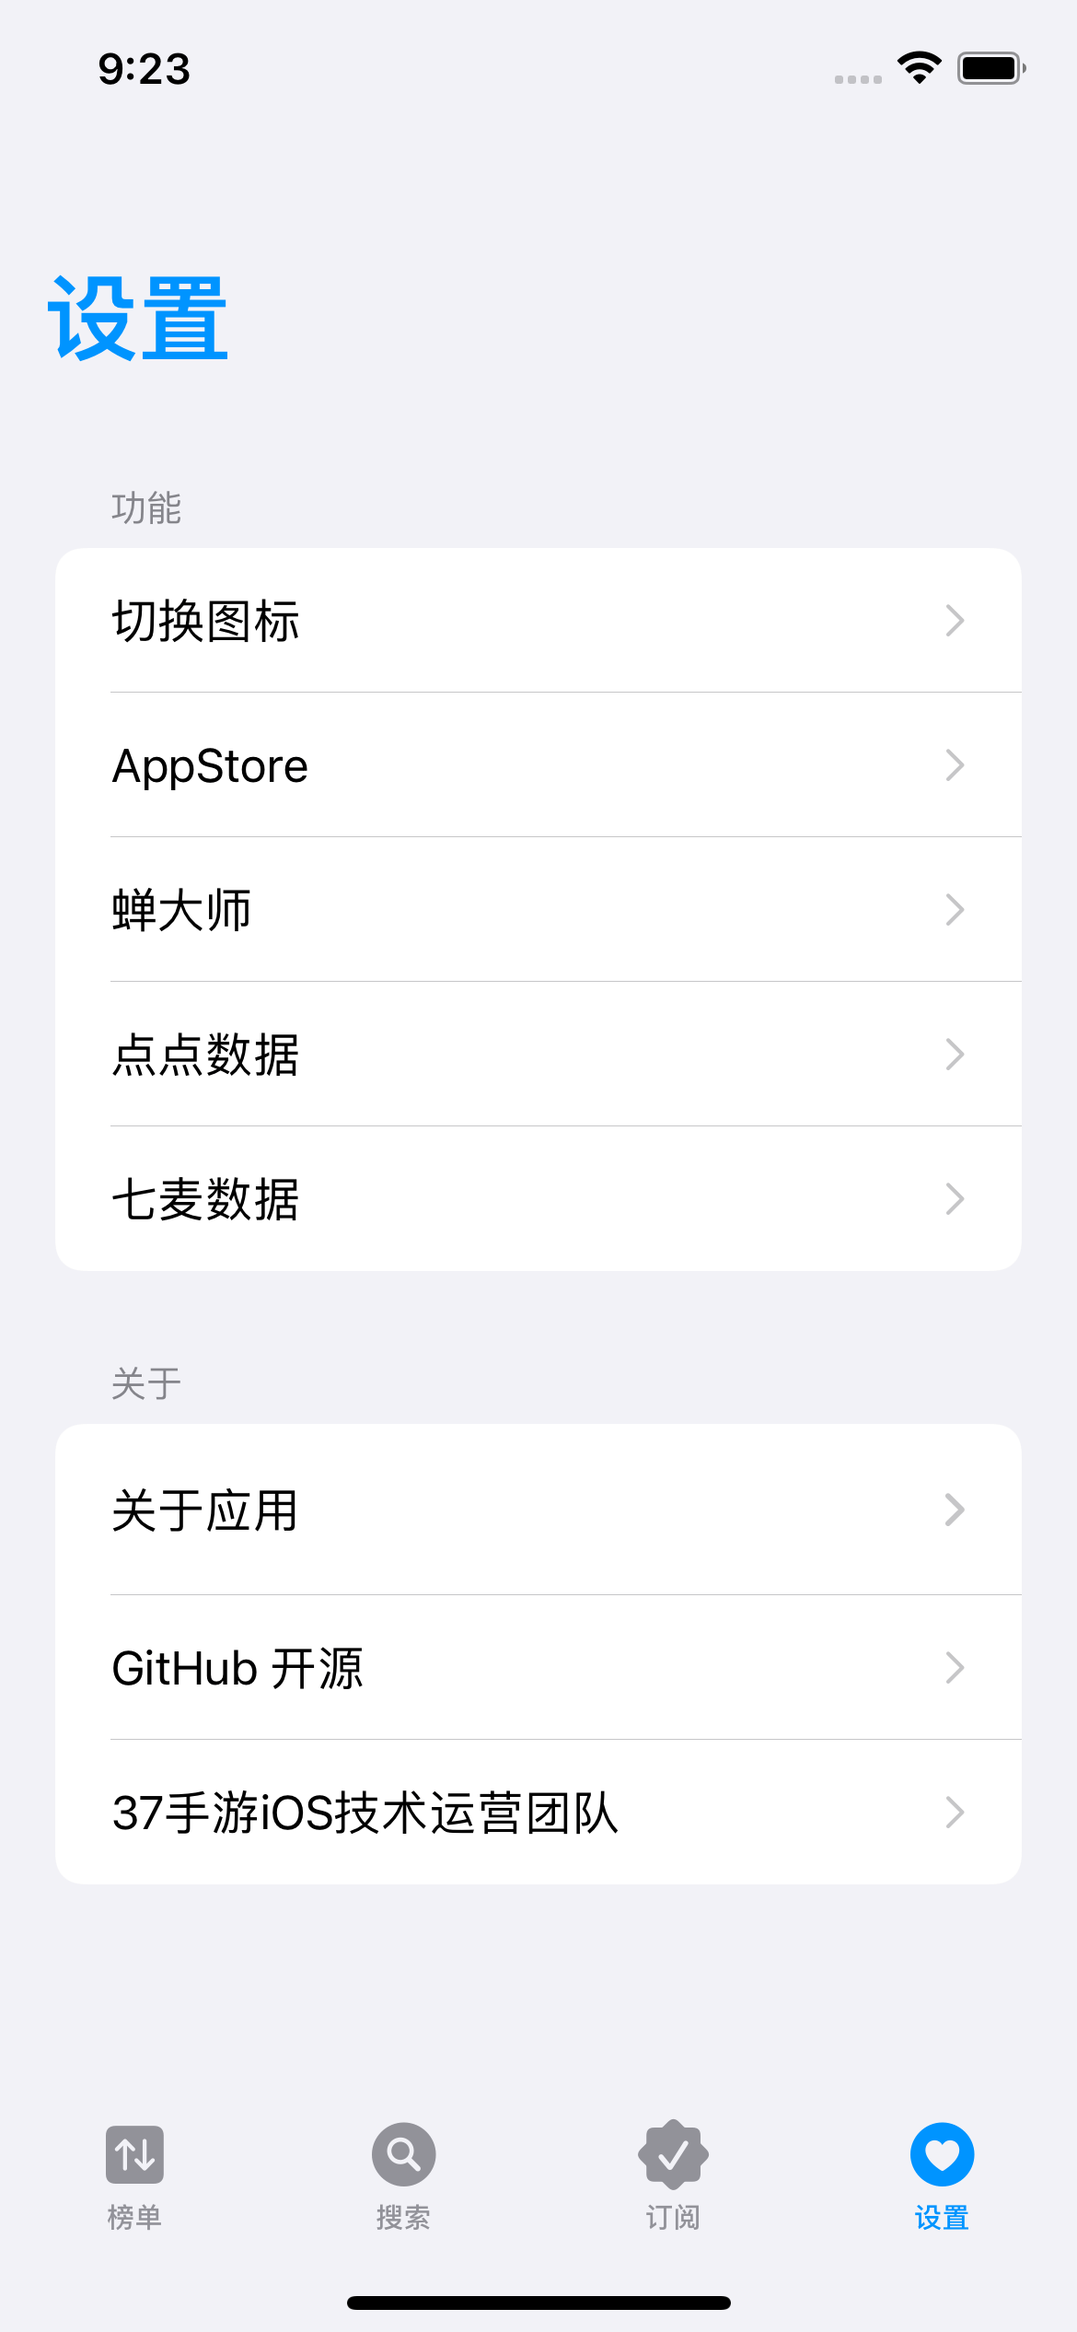
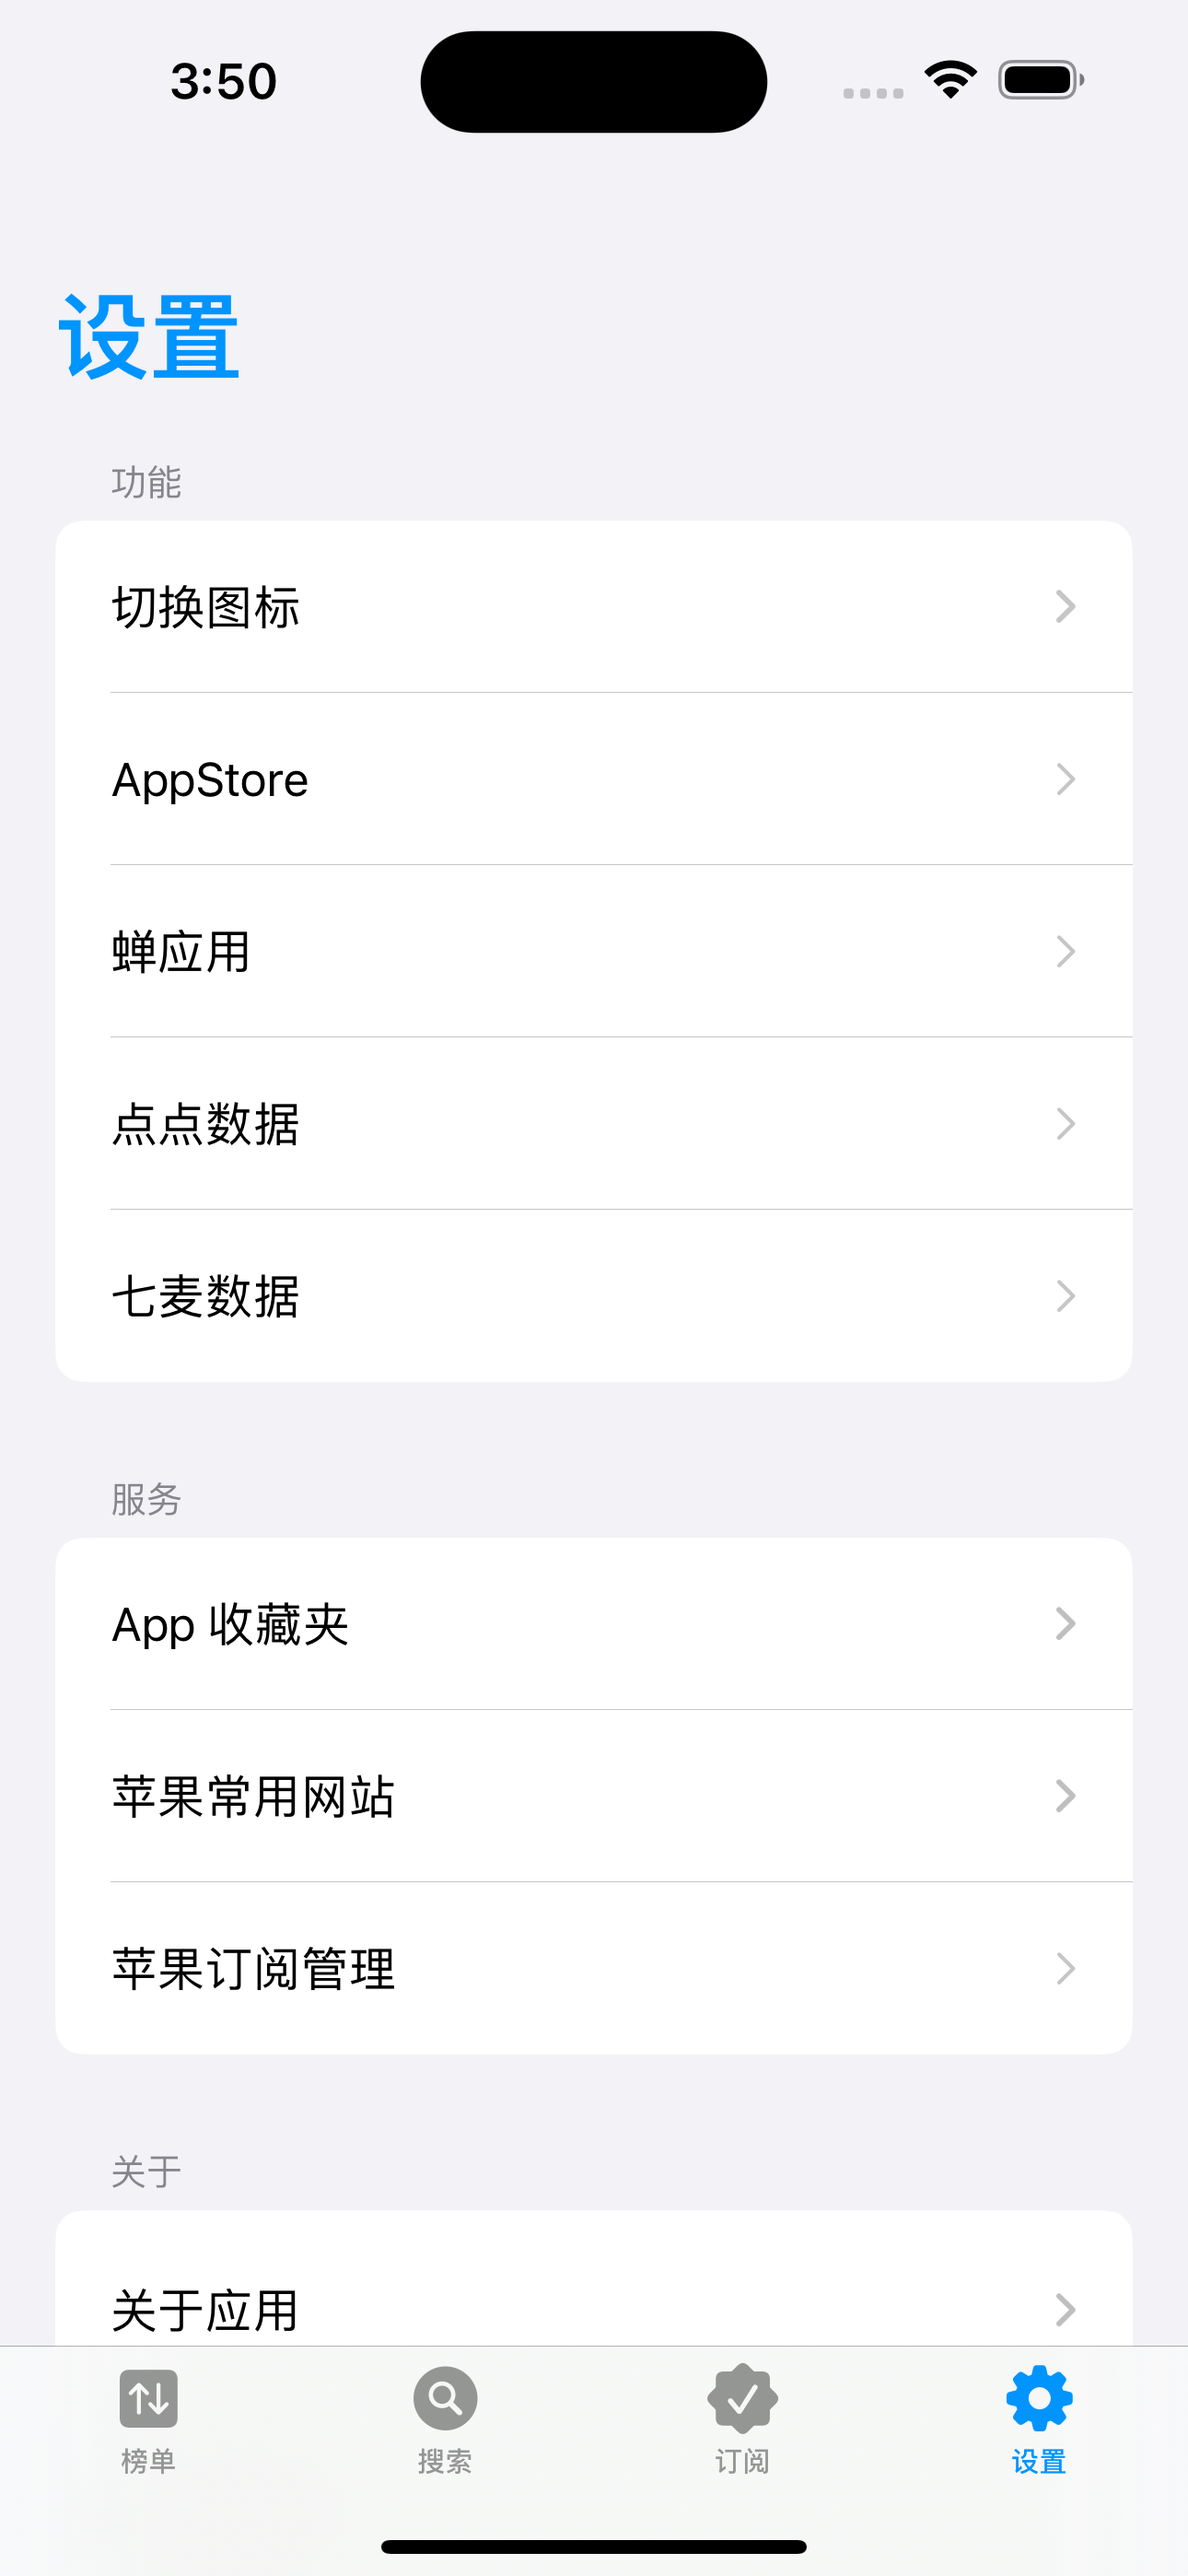
v1.6.0 Updates:
1. Added app bookmarking feature for convenient bookmarking and viewing of a collection of favorite apps.
2. Introduced the ability to generate QR codes for App Store links, enabling quick sharing and downloading.
3. Enhanced and addressed various errors and user experience details.

diff --git a/README.md b/README.md
@@ -54,7 +54,7 @@ TestFlight 下载地址：[https://testflight.apple.com/join/XXEQdVKN](https://t
 | ----- | ----- |
 | ![](screenshot/03.png) | ![](screenshot/04.png) |
 | ![](screenshot/05.png) | ![](screenshot/06.png) |
-| ![](screenshot/07.png) |  |
+| ![](screenshot/07.png) | ![](screenshot/10.png) |
 
 **macOS**
 
